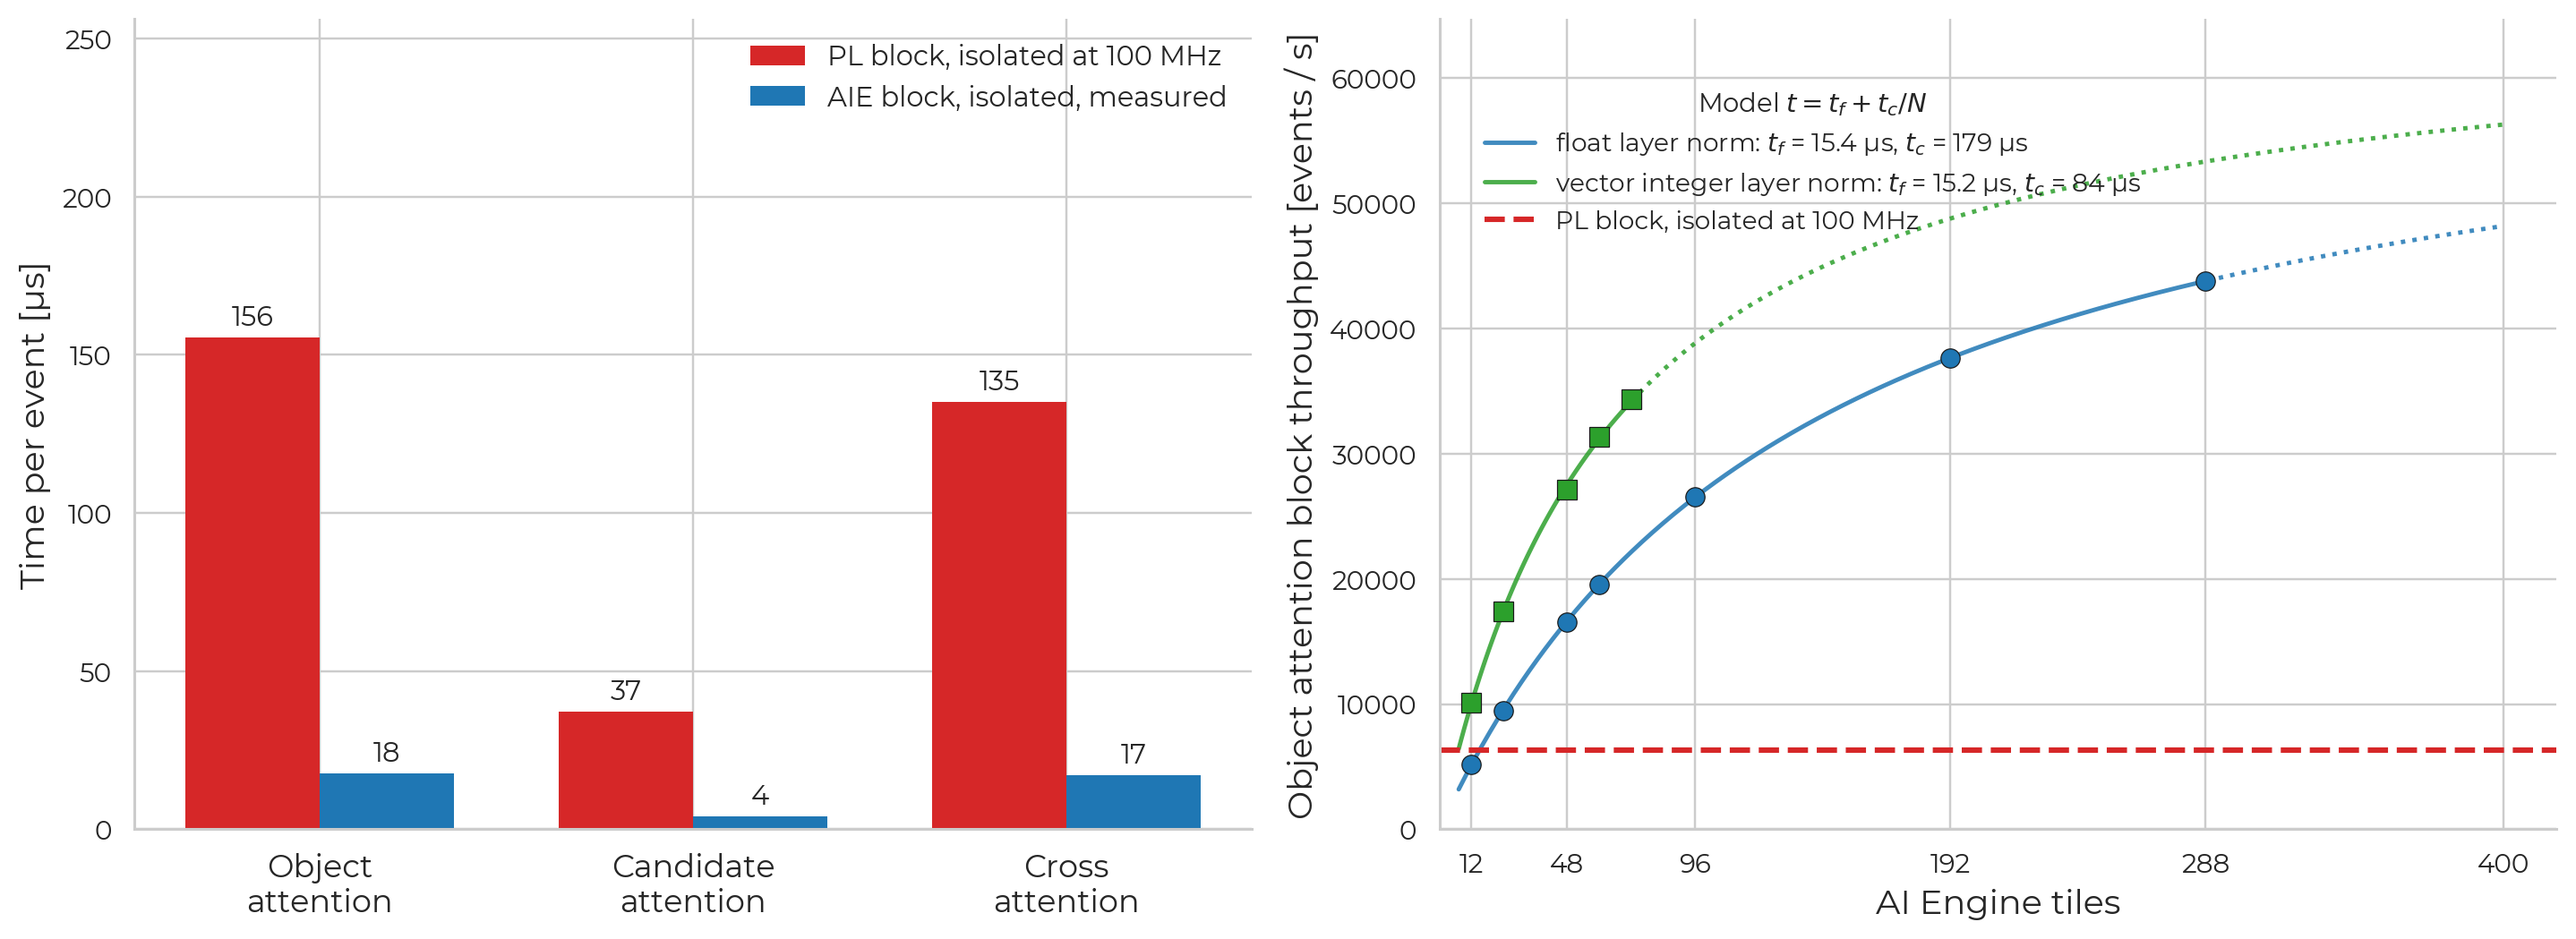
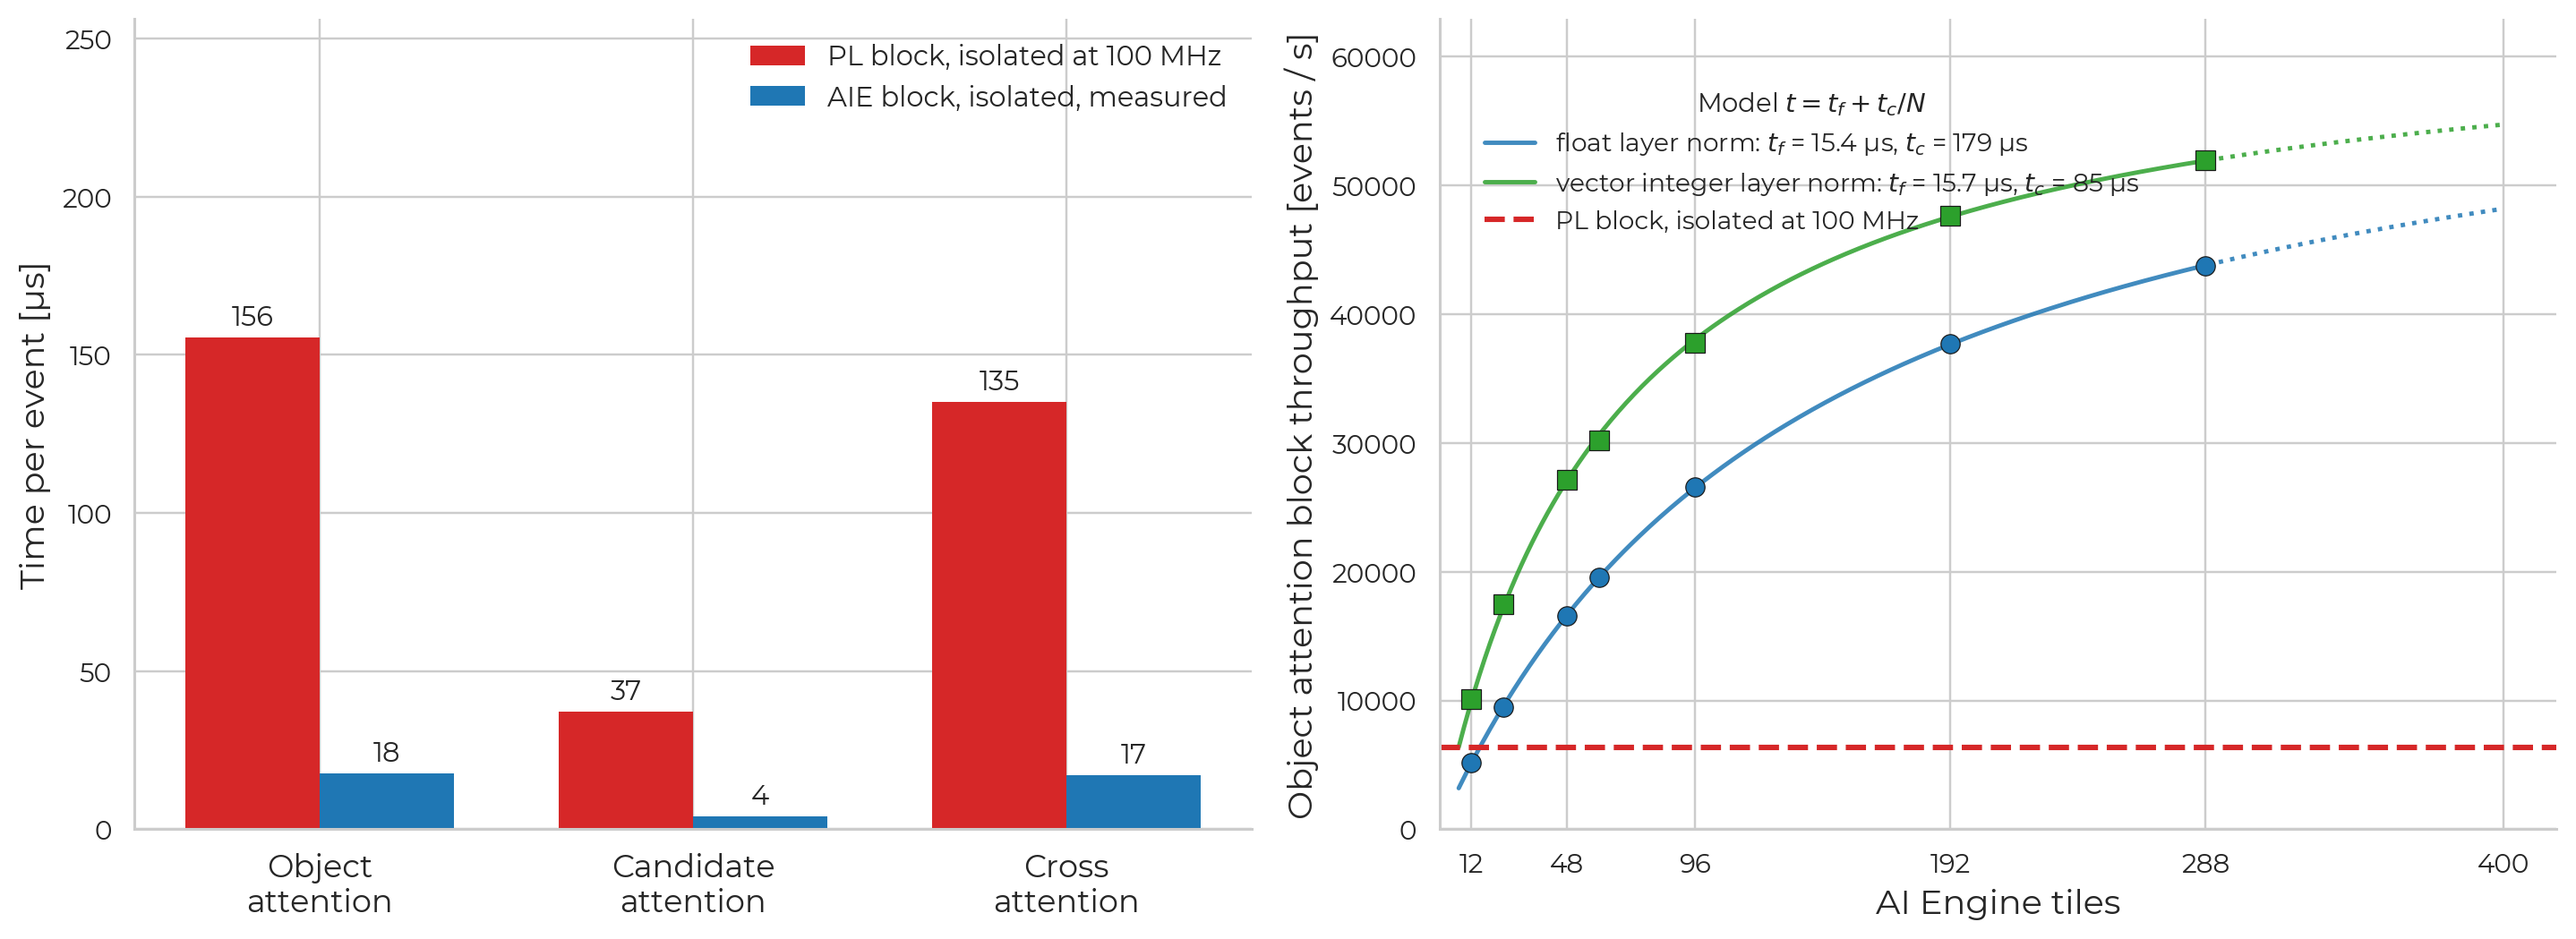
fix: 4 KB AIE stack -- the vector layer norm left only 64 B of headroom
The deepest call path grew from 1792 B to 1984 B against a 2048 B stack.
One or two instances survive that, because the memory past a core's stack is
free; packed 24 instances deep it belongs to a neighbour's buffers, and the
array hangs at 7 instances and above. Rebuilt with --stacksize=4096 the
vehicle sweeps all 24: 288 tiles give 51,959 events/s against 43,772 for the
float kernels, and the scaling panel now has the full range for both.

diff --git a/scripts/make_throughput_charts.py b/scripts/make_throughput_charts.py
@@ -149,11 +149,10 @@ def fig_blocks_and_scaling():
     # Two kernel versions of the same 24-instance vehicle. The vector integer
     # layer norm cuts t_c (the per-instance compute) but leaves t_f (the shared
     # PL feeder) alone, so both curves run into the same ceiling -- the faster
-    # kernels simply get there with fewer tiles. That vehicle stops configuring
-    # reliably above 6 instances with the faster kernels, hence the shorter series.
+    # kernels simply get there with fewer tiles.
     SERIES = [
-        (f"{SAVE}/obj24_sweep_c0.csv",         "float layer norm",          AIE_C,   "o"),
-        (f"{SAVE}/obj24_sweep_lnv2_clean.csv", "vector integer layer norm", "#2ca02c", "s"),
+        (f"{SAVE}/obj24_sweep_c0.csv",  "float layer norm",          AIE_C,   "o"),
+        (f"{SAVE}/obj24_sweep_s4k.csv", "vector integer layer norm", "#2ca02c", "s"),
     ]
     top = 0
     for path, lab, col, mk in SERIES:
